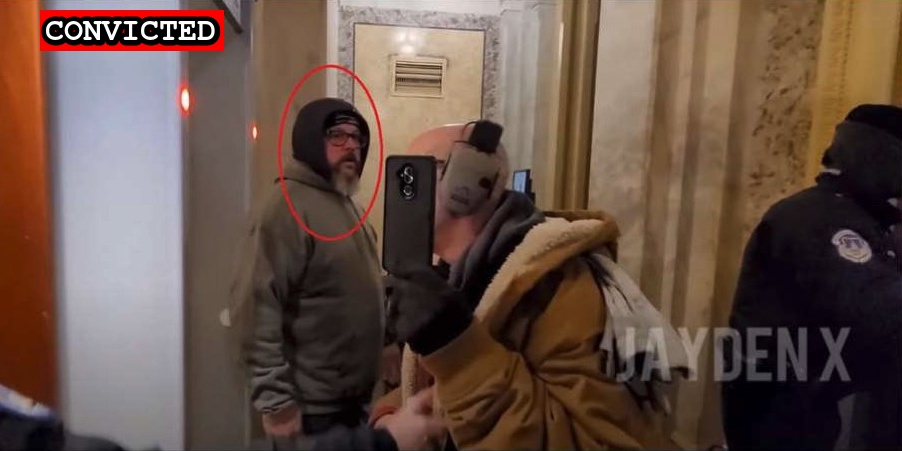
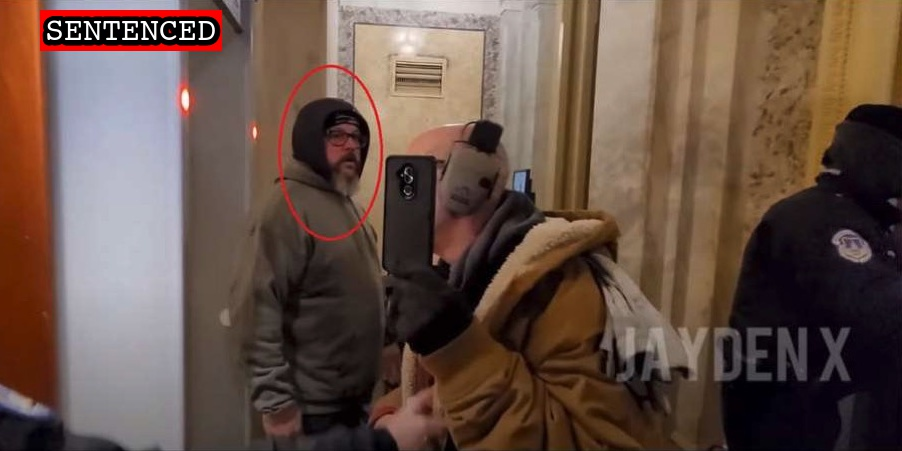
Update sentence

Changed region(s): [[0.031, 0.031, 0.2483, 0.1242]]

diff --git a/docs/_suspects/michael-curzio.md b/docs/_suspects/michael-curzio.md
@@ -34,14 +34,15 @@ published: true
 caseNumber: 1:21-cr-41
 videos:
 charges:
-- code: 18 USC § 5104(e)(2)(G)
-  title: Parading, Demonstrating or Picketing in a Capitol Building
-  url: https://www.law.cornell.edu/uscode/text/40/5104
-  felony: false
+  - code: 18 USC § 5104(e)(2)(G)
+    title: Parading, Demonstrating or Picketing in a Capitol Building
+    url: https://www.law.cornell.edu/uscode/text/40/5104
+    felony: false
 sentence:
-  - 6 months jail time
+  - 6 months in prison
   - $500 restitution
 ---
+
 - [News Report](https://wjno.iheart.com/featured/florida-news/content/2021-01-08-accused-florida-dc-rioter-has-no-regrets/)
 - [DOJ Press Release](https://www.justice.gov/opa/pr/thirteen-charged-federal-court-following-riot-united-states-capitol)
 - [Complaint](https://www.justice.gov/opa/press-release/file/1351716/download)

diff --git a/docs/_suspects/jeffrey-register.md b/docs/_suspects/jeffrey-register.md
@@ -4,12 +4,12 @@ lastName: Register
 hashtag: GunsHoodieNS
 aka:
 residence: Florida
-status: Convicted
+status: Sentenced
 date: 2021-03-19
 charged: 2021-03-19
 indicted:
 convicted: 2021-10-14
-sentenced:
+sentenced: 2022-02-24
 dismissed:
 deceased:
 plea_hearing: 2021-10-14
@@ -39,6 +39,8 @@ charges:
     url: https://www.law.cornell.edu/uscode/text/40/5104
     felony: false
 sentence:
+  - 75 days in prison
+  - $500 restitution
 ---
 
 - [News Report](https://www.firstcoastnews.com/article/news/local/man-makes-tuesday-appearance-in-jacksonville-on-charges-related-to-capitol-riots/77-c9c8a930-f2ec-45c6-b342-11addbdea146)
